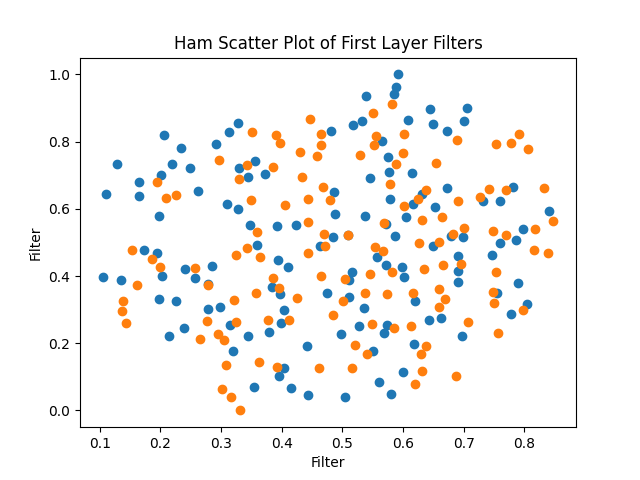
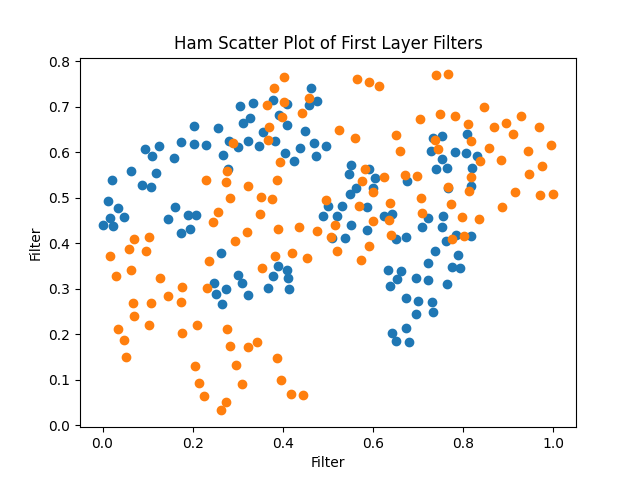
before concat

diff --git a/utils/helper.py b/utils/helper.py
@@ -4,6 +4,7 @@ from matplotlib import pyplot as plt
 import tensorflow as tf
 from tensorflow.keras.layers import Activation, Conv1D, BatchNormalization
 from sklearn.manifold import TSNE
+from dtaidistance import dtw
 
 import os
 import sys
@@ -266,13 +267,19 @@ def plot_filters(model_train, model_test,dataset_name):
     filters_reshaped_train = filters_train.reshape(128,8)
     filters_reshaped_test = filters_test.reshape(128,8)
 
-    X_embedded_train = TSNE(n_components=2,perplexity=15, random_state=42).fit_transform(filters_reshaped_train)
-    X_embedded_test = TSNE(n_components=2,perplexity=15, random_state=42).fit_transform(filters_reshaped_test)
-    
-    concat = np.concatenate((X_embedded_train, X_embedded_test)) 
+    concat = np.concatenate((filters_reshaped_train, filters_reshaped_test)) 
     concat =  (concat - np.min(concat)) / (np.max(concat) - np.min(concat))
-    plt.scatter(concat[:128,0], concat[:128,1])
-    plt.scatter(concat[128:,0], concat[128:,1])
+
+    tsne = TSNE(n_components=2, perplexity=15, random_state=42)
+    concat_dtw = dtw.distance_matrix_fast(concat.astype(np.double))
+
+    print(concat_dtw.shape)
+
+    concat_tsne = tsne.fit_transform(concat_dtw)
+    
+    
+    plt.scatter(concat_tsne[:128,0], concat_tsne[:128,1])
+    plt.scatter(concat_tsne[128:,0], concat_tsne[128:,1])
 
     plt.title(f'{dataset_name} Scatter Plot of First Layer Filters')
     plt.xlabel('Filter')
